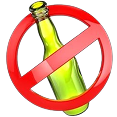
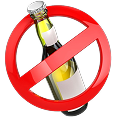
fix styles and readme

diff --git a/vite.config.ts b/vite.config.ts
@@ -9,23 +9,23 @@ export default defineConfig({
     tailwindcss(),
     VitePWA({
       registerType: "autoUpdate",
-      includeAssets: ["favicon.svg", "apple-touch-icon.svg", "masked-icon.svg"],
+      includeAssets: ["logo.png"],
       manifest: {
-        name: "BadHabits - Alcohol & Cigarettes Tracker",
-        short_name: "BadHabits",
-        description: "PWA to track abstinence streaks for alcohol and cigarettes.",
+        name: "Я чист | Quit Streak",
+        short_name: "Я чист",
+        description: "PWA | TWA to track abstinence streaks for alcohol and cigarettes.",
         theme_color: "#0b1020",
         background_color: "#0b1020",
         display: "standalone",
         orientation: "portrait",
         start_url: "/",
         icons: [
-          { src: "/pwa-192.svg", sizes: "192x192", type: "image/svg+xml" },
-          { src: "/pwa-512.svg", sizes: "512x512", type: "image/svg+xml" },
+          { src: "/logo.png", sizes: "192x192", type: "image/png" },
+          { src: "/logo.png", sizes: "512x512", type: "image/png" },
           {
-            src: "/maskable-512.svg",
+            src: "/logo.png",
             sizes: "512x512",
-            type: "image/svg+xml",
+            type: "image/png",
             purpose: "maskable",
           },
         ],

diff --git a/src/components/FloatingControls.tsx b/src/components/FloatingControls.tsx
@@ -17,12 +17,28 @@ export function FloatingControls({
         id="lang-select"
         value={lang}
         onChange={(e) => onLangChange(e.target.value as "ru" | "en")}
-        className="fixed right-[10px] top-[10px] z-30 appearance-none rounded-lg border border-white/15 bg-[#0b1020]/85 px-2 py-1 text-[16px] text-white outline-none"
+        className={`fixed right-[10px] top-[10px] z-30 appearance-none rounded-lg border px-2 py-1 text-[16px] outline-none ${
+          theme === "dark"
+            ? "border-white/15 bg-[#0b1020]/85 text-white"
+            : "border-slate-300 bg-white/95 text-slate-900"
+        }`}
       >
-        <option value="en" className="bg-slate-900">
+        <option
+          value="en"
+          style={{
+            backgroundColor: theme === "dark" ? "#0f172a" : "#ffffff",
+            color: theme === "dark" ? "#f8fafc" : "#0f172a",
+          }}
+        >
           en
         </option>
-        <option value="ru" className="bg-slate-900">
+        <option
+          value="ru"
+          style={{
+            backgroundColor: theme === "dark" ? "#0f172a" : "#ffffff",
+            color: theme === "dark" ? "#f8fafc" : "#0f172a",
+          }}
+        >
           ru
         </option>
       </select>

diff --git a/src/hooks/intl/useIntlStore.ts b/src/hooks/intl/useIntlStore.ts
@@ -26,6 +26,8 @@ export const useIntlStore = create<StoreState>((set) => ({
       [TRANSLATION_KEY.APP_TITLE]: "Abstinence tracker",
       [TRANSLATION_KEY.TODAY]: "Today",
       [TRANSLATION_KEY.DAY_ENDS_IN]: "Day ends in",
+      [TRANSLATION_KEY.DAILY_RESET_DISCLAIMER]:
+        "Mark your results every 24 hours, otherwise your progress will be reset!",
       [TRANSLATION_KEY.DASHBOARD]: "Dashboard",
       [TRANSLATION_KEY.STATS]: "Stats",
       [TRANSLATION_KEY.HISTORY]: "History",
@@ -64,6 +66,8 @@ export const useIntlStore = create<StoreState>((set) => ({
       [TRANSLATION_KEY.APP_TITLE]: "Трекер воздержания",
       [TRANSLATION_KEY.TODAY]: "Сегодня",
       [TRANSLATION_KEY.DAY_ENDS_IN]: "До конца дня",
+      [TRANSLATION_KEY.DAILY_RESET_DISCLAIMER]:
+        "Отмечай результаты каждые 24 часа, иначе прогресс будет сброшен!",
       [TRANSLATION_KEY.DASHBOARD]: "Главная",
       [TRANSLATION_KEY.STATS]: "Статистика",
       [TRANSLATION_KEY.HISTORY]: "История",

diff --git a/src/components/AppHeader.tsx b/src/components/AppHeader.tsx
@@ -11,10 +11,7 @@ export function AppHeader({ today }: AppHeaderProps) {
 
   return (
     <header className="relative mb-6 flex min-h-12 flex-wrap items-center justify-center gap-3">
-      <div className="w-full text-center">
-        <h1 className="text-3xl font-bold sm:text-4xl">{t(TRANSLATION_KEY.APP_TITLE)}</h1>
-      </div>
-      <div className="flex w-full items-center justify-between gap-2">
+      <div className="flex w-full items-center justify-center gap-2">
         <div className="glass-card rounded-xl border border-white/15 bg-white/10 px-3 py-2">
           <p className="text-[10px] uppercase tracking-[0.2em] text-white/70">
             {t(TRANSLATION_KEY.TODAY)}
@@ -24,6 +21,9 @@ export function AppHeader({ today }: AppHeaderProps) {
 
         <DayCountdown hidden={false} />
       </div>
+      <p className="w-full text-center text-[15px] italic text-[#FE080A] opacity-60 [font-synthesis:weight]">
+        {t(TRANSLATION_KEY.DAILY_RESET_DISCLAIMER)}
+      </p>
     </header>
   );
 }

diff --git a/index.html b/index.html
@@ -2,11 +2,11 @@
 <html lang="en">
   <head>
     <meta charset="UTF-8" />
-    <link rel="icon" type="image/svg+xml" href="/favicon.svg" />
+    <link rel="icon" type="image/png" href="/logo.png" />
     <meta name="viewport" content="width=device-width, initial-scale=1.0" />
     <meta name="theme-color" content="#0b1020" />
     <meta name="description" content="Track abstinence streaks for alcohol and cigarettes." />
-    <link rel="apple-touch-icon" href="/apple-touch-icon.svg" />
+    <link rel="apple-touch-icon" href="/logo.png" />
     <title>BadHabits - Abstinence Tracker</title>
   </head>
   <body>

diff --git a/src/App.tsx b/src/App.tsx
@@ -20,7 +20,7 @@ import alcoholIcon from "./assets/alcohol.png";
 import smokeIcon from "./assets/smoke.png";
 
 const habits: HabitMeta[] = [
-  { key: "alcohol", label: "Alcohol", icon: alcoholIcon, accent: "#60a5fa" },
+  { key: "alcohol", label: "Alcohol", icon: alcoholIcon, accent: "#34d399" },
   { key: "cigarettes", label: "Cigarettes", icon: smokeIcon, accent: "#34d399" },
 ];
 const EMPTY_ENTRIES: DailyEntry[] = [];

diff --git a/src/components/BottomNav.tsx b/src/components/BottomNav.tsx
@@ -10,8 +10,8 @@ interface BottomNavProps {
 }
 
 const tabs: Array<{ key: TabKey; labelKey: TranslationKey;  }> = [
-  { key: "dashboard", labelKey: TRANSLATION_KEY.DASHBOARD },
   { key: "stats", labelKey: TRANSLATION_KEY.STATS },
+  { key: "dashboard", labelKey: TRANSLATION_KEY.DASHBOARD },
   { key: "history", labelKey: TRANSLATION_KEY.HISTORY },
 ];
 

diff --git a/src/hooks/intl/translationKeys.ts b/src/hooks/intl/translationKeys.ts
@@ -3,6 +3,7 @@ export const TRANSLATION_KEY = {
   APP_TITLE: "appTitle",
   TODAY: "today",
   DAY_ENDS_IN: "dayEndsIn",
+  DAILY_RESET_DISCLAIMER: "dailyResetDisclaimer",
   DASHBOARD: "dashboard",
   STATS: "stats",
   HISTORY: "history",

diff --git a/README.md b/README.md
@@ -1,24 +1,8 @@
 # BadHabits PWA
 
-Modern PWA for abstinence tracking for two habits:
+PWA for tracking abstinence streaks for:
 - Alcohol
 - Cigarettes
-
-## Tech Stack
-
-- React + TypeScript + Vite
-- IndexedDB via Dexie
-- TailwindCSS (dark + glassmorphism)
-- Framer Motion
-- vite-plugin-pwa
-
-## Features
-
-- Daily checkmark with streak reset when day is missed
-- Current/max streak and progress cards
-- Relapses and monthly heatmap calendars in stats
-- History and relapses with month pagination
-- PWA installability and offline support
 
 ## Development
 
@@ -27,39 +11,28 @@ npm install
 npm run dev
 ```
 
-## Production
+## Build
 
 ```bash
 npm run build
-npm run preview
 ```
 
-## TWA + Google Play Checklist
+## Environment Variables
 
-1. Host app on HTTPS domain.
-2. Update `public/.well-known/assetlinks.json` with your real:
-   - Android package name
-   - Play signing SHA-256
-3. Publish these files on your domain:
-   - `/.well-known/assetlinks.json`
-   - `/privacy-policy` (SPA route; ensure host rewrite to `index.html`)
-   - `/app-ads.txt`
-3. Use Bubblewrap:
-   - `npm i -g @bubblewrap/cli`
-   - `bubblewrap init --manifest https://your-domain/manifest.webmanifest`
-   - `bubblewrap build`
-4. Open generated Android project and prepare Play release.
-
-## AdSense Banner
-
-Set environment variables in production:
+Set in your deploy platform:
 
 ```bash
 VITE_ADSENSE_CLIENT_ID=ca-pub-xxxxxxxxxxxxxxxx
 VITE_ADSENSE_SLOT_ID=1234567890
 ```
 
-For Play Console:
-- mark app as containing ads
-- complete Data safety according to your real data usage
-- add a valid public Privacy Policy URL
+## Deployment
+
+- Netlify settings are configured in `netlify.toml`.
+- Public compliance files are served from `public/`:
+  - `/.well-known/assetlinks.json`
+  - `/app-ads.txt`
+
+## Privacy Policy
+
+Privacy Policy is available in-app via the dedicated Privacy tab.
